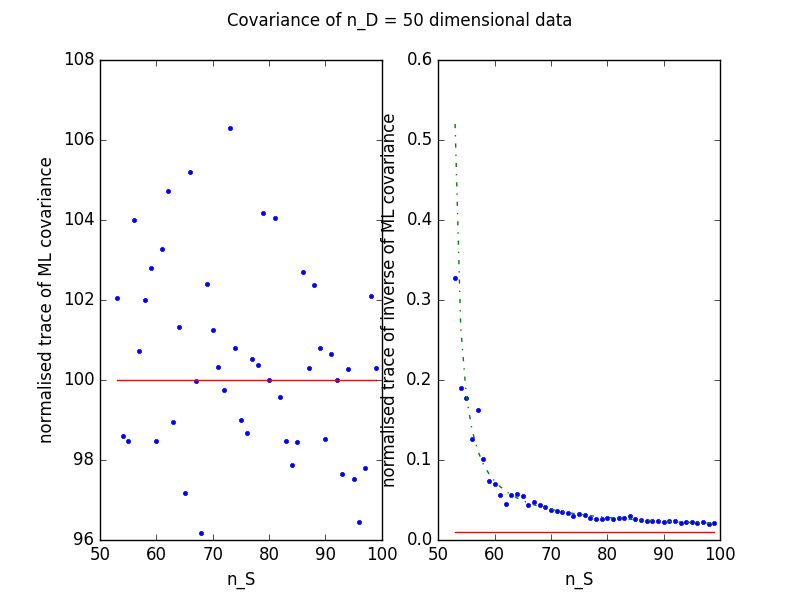
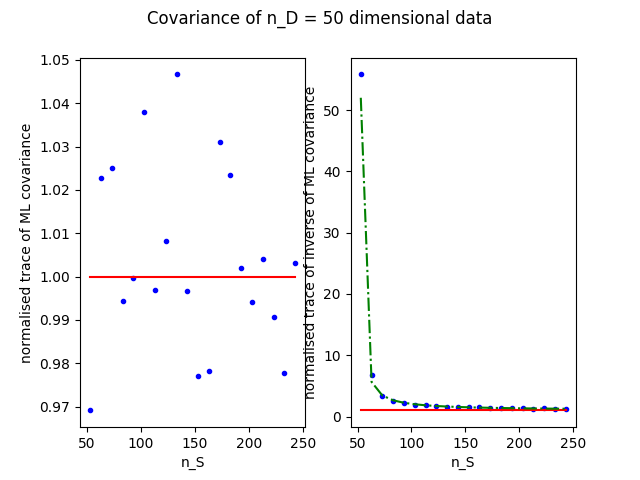
corrected fit function

diff --git a/scripts/cov_matrix_definition/test_ML.py b/scripts/cov_matrix_definition/test_ML.py
@@ -23,7 +23,20 @@ def get_cov_ML_by_hand(mean, cov, size):
 
 
 def get_cov_ML(mean, cov, size):
+    """
+    *** covariance of the data! ***
+    Simulate a set of catalogs from  a multivariate gaussian with given mean,
+    covariance and number of observations. 
+    Then extract the mean and covariance from the simulated values.
 
+    input: mean, expected mean of observations - array of floats
+           cov, covariance matrix  - matrix of floats
+           size, number of observations in the catalog - int
+
+    output: cov_est, the estimated covariance matrix - matrix of floats
+    """
+
+    # simulate catalog
     y2 = multivariate_normal.rvs(mean=mean, cov=cov, size=size)
     # y2[:,j] = realisations for j-th data entry
     # y2[i,:] = data vector for i-th realisation
@@ -67,26 +80,39 @@ def plot_sigma_ML(n, sigma_ML, sigma_m1_ML, sig):
 
 
 def fit(x1, cov):
+    """
+    Generates one draw from a multivariate normal distribution
+    and performs the linear fit  without taking the correlation into
+    consideration.
+
+    input:  x1, mean of multivariate normal distribution - vector of floats
+            cov, square covariance matrix for the multivariate normal
+
+    output: fit, Stan fitting object
+    """
 
     # Fit
     toy_data = {}                  # build data dictionary
     toy_data['nobs'] = len(x1)     # sample size = n_D
     toy_data['x'] = x1             # explanatory variable
-    y = multivariate_normal.rvs(mean=x1, cov=cov, size=1)
-    toy_data['y'] = y              # response variable, here one realisation
 
+    # cov = covariance of the data!
+    y = multivariate_normal.rvs(mean=x1, cov=cov, size=1)
+    toy_data['y'] = y                        # response variable, here one realisation
+    toy_data['sigma'] = np.sqrt(cov[0][0])   # scatter is not a parameter to be estimated
 
     # STAN code
+    # the fitting code does not believe that observations are correlated!
     stan_code = """
     data {
-        int<lower=0> nobs;                                 
+        int<lower=0> nobs; 
+        real<lower=0> sigma;                                
         vector[nobs] x;                       
         vector[nobs] y;                       
     }
     parameters {
         real a;
-        real b;                                                
-        real<lower=0> sigma;               
+        real b;                                                              
     }
     model {
         vector[nobs] mu;
@@ -106,12 +132,68 @@ def fit(x1, cov):
 
     return fit
 
+def fit_corr(x1, cov_true, cov_estimated):
+    """
+    Generates one draw from a multivariate normal distribution
+    and performs the linear fit taking the correlation estimated 
+    from simulations into consideration.
+
+    input:  x1, mean of multivariate normal distribution - vector of floats
+            cov_true, square covariance matrix for the simulation
+            cov_estimated, square covariance matrix for the fitting
+
+    output: fit, Stan fitting object
+    """
+
+    # Fit
+    toy_data = {}                  # build data dictionary
+    toy_data['nobs'] = len(x1)     # sample size = n_D
+    toy_data['x'] = x1             # explanatory variable
+
+    # cov = covariance of the data!
+    y = multivariate_normal.rvs(mean=x1, cov=cov_true, size=1)
+    toy_data['y'] = y              # response variable, here one realisation
+
+    # set estimated covariance matrix for fitting
+    toy_data['cov_est'] = cov_estimated
+
+    # STAN code
+    # the fitting code does not believe that observations are correlated!
+    stan_code = """
+    data {
+        int<lower=0> nobs;                                 
+        vector[nobs] x;                       
+        vector[nobs] y;   
+        matrix[nobs, nobs] cov_est;                    
+    }
+    parameters {
+        real a;
+        real b;                                                              
+    }
+    model {
+        vector[nobs] mu;
+
+        mu = b + a * x;
+
+        y ~ multi_normal(mu, cov_est);             # Likelihood function
+    }
+    """
+
+    start = time.time()
+    fit = pystan.stan(model_code=stan_code, data=toy_data, iter=2500, chains=3, verbose=False, n_jobs=3)
+    end = time.time()
+
+    #elapsed = end - start
+    #print 'elapsed time = ' + str(elapsed)
+
+    return fit
+
 
 
 # Parameters
 a = 1.0                                                 # angular coefficient
-b = 2.5                                                 # linear coefficient
-sig = 100
+b = 0                                                 # linear coefficient
+sig = 1                                               # *** cov of the data! ***
 
 # Data
 n_D = 50                                                 # Dimension of data vector
@@ -119,7 +201,7 @@ x1 = uniform.rvs(loc=-100, scale=200, size=n_D)        # exploratory variable
 x1.sort()
 
 yreal = a * x1 + b
-cov = np.diag([sig for i in range(n_D)])
+cov = np.diag([sig for i in range(n_D)])            # *** cov of the data in the same catalog! ***
 
 
 n           = []                                        # number of simulations
@@ -128,8 +210,9 @@ sigma_m1_ML = []
 fit_res     = {}
 fit_res['a_mean'] = []
 fit_res['a_std'] = []
+fit_res['b_mean'] = []
 
-for n_S in range(n_D+3, n_D+50, 10):
+for n_S in range(n_D+3, n_D+200, 10):
 
     n.append(n_S)                                             # number of data points
 
@@ -147,15 +230,33 @@ for n_S in range(n_D+3, n_D+50, 10):
     #print n_S, n_D, len(x1), this_sigma_ML, this_sigma_m1_ML
 
     # MCMC fit of parameters
-    res = fit(x1, cov)
+    res = fit_corr(x1, cov, cov_est)
     la  = res.extract(permuted=True)
     fit_res['a_mean'].append(np.mean(la['a']))
     fit_res['a_std'].append(np.std(la['a']))
+    fit_res['b_mean'].append(np.mean(la['b']))
 
 
 plot_sigma_ML(n, sigma_ML, sigma_m1_ML, sig)
 
 print(fit_res['a_mean'])
 print(fit_res['a_std'])
+print(fit_res['b_mean'])
+
+plt.figure()
+plt.subplot(1,2,1)
+plt.scatter(n, fit_res['a_mean'], color='b')
+plt.plot([n[0], n[-1]], [a, a], color='r', label='true value')
+plt.xlabel('n_S')
+plt.ylabel('a_mean')
+plt.ylim(min(fit_res['b_mean']) - 1, max(fit_res['b_mean'])+1)
+
+plt.subplot(1,2,2)
+plt.scatter(n, fit_res['b_mean'], color='b')
+plt.plot([n[0], n[-1]], [b, b], color='r', label='true value')
+plt.xlabel('n_S')
+plt.ylabel('b_mean')
+plt.ylim(min(fit_res['b_mean']) - 1, max(fit_res['b_mean'])+1)
+plt.savefig('output_from_Stan.png')
 
 
